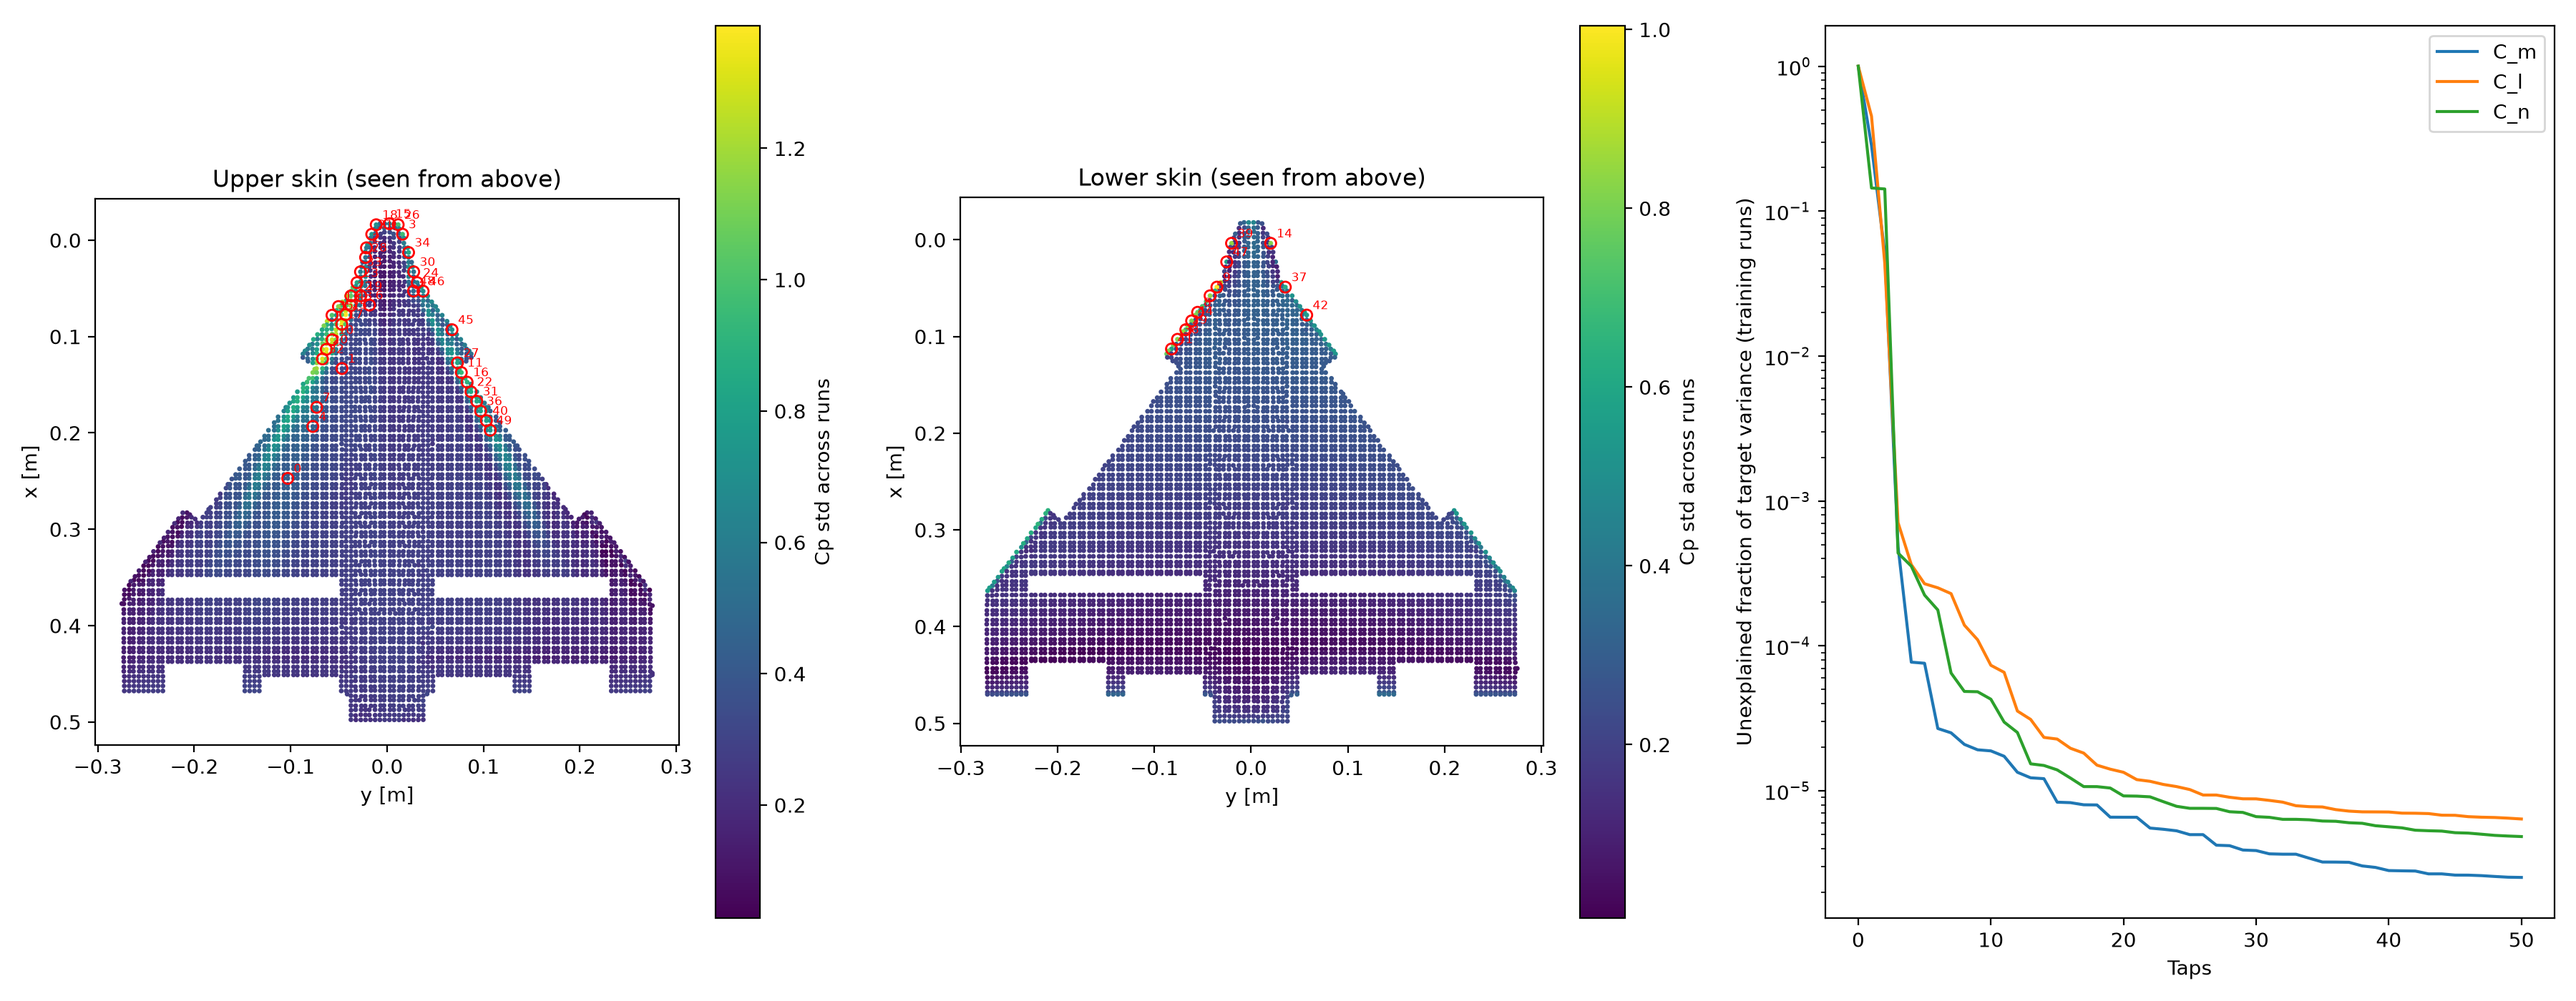
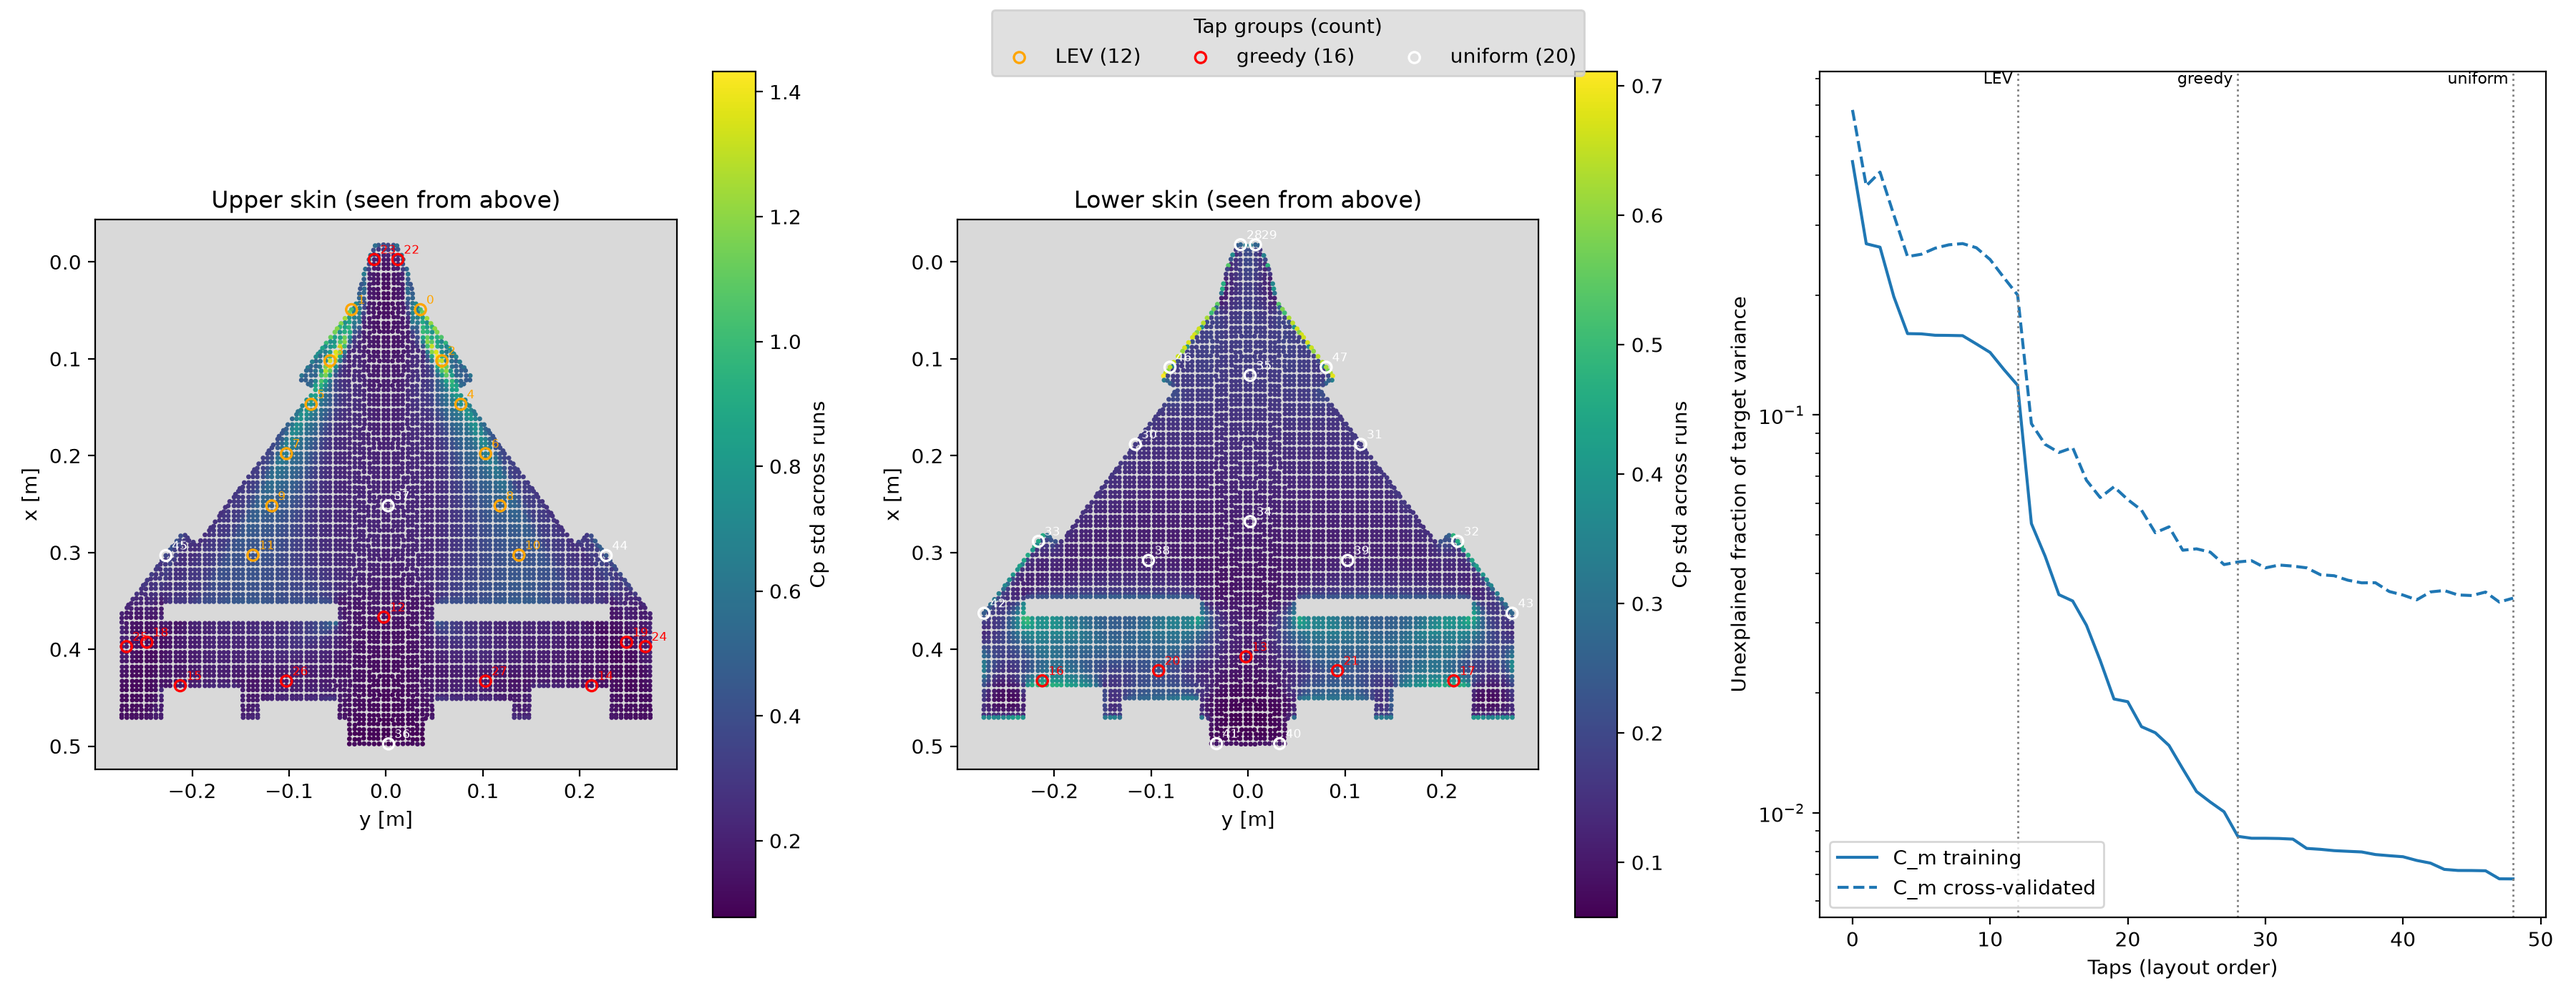
new BLUE passport

diff --git a/src/ml/taps/cfd_taps.py b/src/ml/taps/cfd_taps.py
@@ -27,6 +27,7 @@ import matplotlib.pyplot as plt
 import polars as pl
 import torch
 from matplotlib.axes import Axes
+from matplotlib.patches import Rectangle
 from torch import Tensor
 
 from src.config import CONFIG
@@ -106,11 +107,37 @@ def reference_run(runs: pl.DataFrame) -> str:
     return clean["run"][0]
 
 
-def candidate_points(reference: pl.DataFrame, spacing: float = CANDIDATE_SPACING_M,
-                     fuselage_half_width: float = CONFIG.rig.fuselage_half_width_m) -> pl.DataFrame:
-    """One face per `spacing` square in planform (x, y) on each skin: the one nearest the square's centre. Nothing
-    on the fuselage (|y| < `fuselage_half_width`): taps cannot be fitted there."""
-    cells = reference.filter(pl.col("y").abs() >= fuselage_half_width).with_columns((pl.col(c) / spacing).floor().alias(f"cell_{c}") for c in ("x", "y"))
+@dataclass(frozen=True)
+class NoTapZone:
+    """A planform rectangle where taps cannot be fitted, on both skins and mirrored port/starboard."""
+    name: str
+    abs_y: tuple[float, float]
+    x: tuple[float, float]
+
+
+def no_tap_zones() -> list[NoTapZone]:
+    """The fuselage, and the main body further than the allowed distance behind the split flaps (from CONFIG.rig)."""
+    rig = CONFIG.rig
+    inf = float("inf")
+    return [
+        NoTapZone("fuselage", (0.0, rig.fuselage_half_width_m), (-inf, inf)),
+        NoTapZone("behind splitters", rig.splitter_span_m,
+                  (rig.splitter_trailing_edge_x_m + rig.max_tap_behind_splitter_m, inf)),
+    ]
+
+
+def tap_allowed(zones: list[NoTapZone]) -> pl.Expr:
+    """True where a face lies outside every zone."""
+    inside = [pl.col("y").abs().is_between(*z.abs_y, closed="left") & pl.col("x").is_between(*z.x, closed="none")
+              for z in zones]
+    return ~pl.any_horizontal(inside)
+
+
+def candidate_points(reference: pl.DataFrame, spacing: float = CANDIDATE_SPACING_M) -> pl.DataFrame:
+    """One face per `spacing` square in planform (x, y) on each skin: the one nearest the square's centre. None in
+    a `no_tap_zones` zone."""
+    cells = reference.filter(tap_allowed(no_tap_zones())).with_columns(
+        (pl.col(c) / spacing).floor().alias(f"cell_{c}") for c in ("x", "y"))
     off_centre = sum(((pl.col(c) / spacing) - pl.col(f"cell_{c}") - 0.5) ** 2 for c in ("x", "y"))
     return (
         cells.sort(off_centre)
@@ -362,6 +389,14 @@ def _planform(ax: Axes, problem: TapProblem, taps: pl.DataFrame, surface: int, t
     xy = problem.candidates.filter(pl.Series(on_surface))
     scatter = ax.scatter(xy["y"], xy["x"], c=spread, s=2, cmap="viridis")
     plt.colorbar(scatter, ax=ax, label="Cp std across runs")
+    xs = xy["x"].to_numpy()
+    x_lo, x_hi = float(xs.min()), float(xs.max())  # clip the open-ended zones to the wing
+    for i, zone in enumerate(no_tap_zones()):
+        x0, x1 = max(zone.x[0], x_lo), min(zone.x[1], x_hi)
+        y0, y1 = zone.abs_y
+        for lo, hi in ((y0, y1), (-y1, -y0)):
+            ax.add_patch(Rectangle((lo, x0), hi - lo, x1 - x0, facecolor="0.6", hatch="//", edgecolor="0.4",
+                                   linewidth=0, label="no taps" if i == 0 and lo >= 0 else None))
     for group, colour in GROUP_COLOURS.items():
         picked = taps.filter(pl.col("surface") == surface, pl.col("group") == group)
         ax.scatter(picked["y"], picked["x"], s=30, facecolors="none", edgecolors=colour, linewidths=1.2,

diff --git a/src/ui/tabs/cfd_tab.py b/src/ui/tabs/cfd_tab.py
@@ -2,13 +2,14 @@
 
 Pick a case and a field, then drag the x or y slider (or use the arrow keys on it). The model and camera are the same
 in every image, so it looks like moving a slice through the flow. Each slider keeps its position when the case or
-field changes, so the same station can be compared across cases.
+field changes, so the same station can be compared across cases. Mouse wheel zooms, dragging pans and a double-click
+fits the whole image; the zoom and pan stay put while sliding, so one region can be followed through the sweep.
 """
 
 from pathlib import Path
 
 from qtpy.QtCore import Qt
-from qtpy.QtGui import QPixmap, QResizeEvent
+from qtpy.QtGui import QPixmap
 from qtpy.QtWidgets import (
     QButtonGroup,
     QComboBox,
@@ -19,13 +20,13 @@ from qtpy.QtWidgets import (
     QLineEdit,
     QPushButton,
     QRadioButton,
-    QSizePolicy,
     QSlider,
     QVBoxLayout,
     QWidget,
 )
 
 from src.cfd import slice_images
+from src.ui.utils.image_view import ImageView
 
 
 class CfdTab(QWidget):
@@ -33,7 +34,6 @@ class CfdTab(QWidget):
         super().__init__()
         self._sweeps: dict[str, list[Path]] = {}  # axis -> images of the current case and field
         self._pixmaps: dict[Path, QPixmap] = {}  # loaded images of the current case
-        self._shown: QPixmap | None = None
 
         # --- source row: folder, case, field ---
         self.folder_edit = QLineEdit(str(slice_images.SLICE_IMAGES_DIR))
@@ -79,11 +79,8 @@ class CfdTab(QWidget):
             sliders.addWidget(position, row, 2)
             self.axis_radio[axis], self.sliders[axis], self.positions[axis] = radio, slider, position
 
-        # --- image ---
-        self.image = QLabel("No slice images found")
-        self.image.setAlignment(Qt.AlignmentFlag.AlignCenter)
-        self.image.setSizePolicy(QSizePolicy.Policy.Ignored, QSizePolicy.Policy.Ignored)
-        self.image.setMinimumSize(200, 120)
+        # --- image: wheel to zoom, drag to pan, double-click to fit; zoom and pan stay put while sliding ---
+        self.image = ImageView()
         self.path_label = QLabel()
         self.path_label.setTextInteractionFlags(Qt.TextInteractionFlag.TextSelectableByMouse)
 
@@ -157,24 +154,11 @@ class CfdTab(QWidget):
         axis = next(a for a, r in self.axis_radio.items() if r.isChecked())
         images = self._sweeps.get(axis, [])
         if not images:
-            self._shown = None
-            self.image.clear()
-            self.image.setText("No slice images found")
-            self.path_label.clear()
+            self.image.set_pixmap(None)
+            self.path_label.setText("No slice images found")
             return
         path = images[self.sliders[axis].value()]
         if path not in self._pixmaps:
             self._pixmaps[path] = QPixmap(str(path))
-        self._shown = self._pixmaps[path]
+        self.image.set_pixmap(self._pixmaps[path])
         self.path_label.setText(str(path))
-        self._fit()
-
-    def _fit(self) -> None:
-        if self._shown is not None:
-            self.image.setPixmap(self._shown.scaled(
-                self.image.size(), Qt.AspectRatioMode.KeepAspectRatio, Qt.TransformationMode.SmoothTransformation,
-            ))
-
-    def resizeEvent(self, event: QResizeEvent) -> None:
-        super().resizeEvent(event)
-        self._fit()

diff --git a/src/ui/utils/image_view.py b/src/ui/utils/image_view.py
@@ -1,0 +1,68 @@
+"""An image viewer with mouse-wheel zoom and drag-to-pan that keeps its zoom and pan when the image is swapped."""
+
+from qtpy.QtCore import Qt
+from qtpy.QtGui import QMouseEvent, QPainter, QPixmap, QResizeEvent, QWheelEvent
+from qtpy.QtWidgets import QFrame, QGraphicsPixmapItem, QGraphicsScene, QGraphicsView
+
+ZOOM_STEP: float = 1.25  # per wheel notch
+MAX_ZOOM: float = 40.0  # relative to fitting the whole image
+
+
+class ImageView(QGraphicsView):
+    """Wheel zooms about the cursor, left-drag pans, double-click (or `fit`) shows the whole image again.
+
+    While fitted, the image follows the widget's size. Once zoomed in, `set_pixmap` keeps the view where it is, so
+    flicking through images of the same size compares the same spot."""
+
+    def __init__(self) -> None:
+        super().__init__()
+        self.setScene(QGraphicsScene(self))
+        self._item = QGraphicsPixmapItem()
+        self._item.setTransformationMode(Qt.TransformationMode.SmoothTransformation)
+        self.scene().addItem(self._item)
+        self._fitted = True
+        self.setRenderHint(QPainter.RenderHint.SmoothPixmapTransform)
+        self.setDragMode(QGraphicsView.DragMode.ScrollHandDrag)
+        self.setTransformationAnchor(QGraphicsView.ViewportAnchor.AnchorUnderMouse)
+        self.setResizeAnchor(QGraphicsView.ViewportAnchor.AnchorViewCenter)
+        self.setHorizontalScrollBarPolicy(Qt.ScrollBarPolicy.ScrollBarAlwaysOff)
+        self.setVerticalScrollBarPolicy(Qt.ScrollBarPolicy.ScrollBarAlwaysOff)
+        self.setFrameShape(QFrame.Shape.NoFrame)
+        self.setMinimumSize(200, 120)
+
+    def set_pixmap(self, pixmap: QPixmap | None) -> None:
+        """Show `pixmap` (None clears). Keeps the current zoom and pan unless the view is fitted."""
+        new_size = pixmap is not None and pixmap.size() != self._item.pixmap().size()
+        self._item.setPixmap(pixmap if pixmap is not None else QPixmap())
+        self.scene().setSceneRect(self._item.boundingRect())
+        if self._fitted or new_size:
+            self.fit()
+
+    def fit(self) -> None:
+        """Show the whole image."""
+        self._fitted = True
+        if not self._item.pixmap().isNull():
+            self.fitInView(self._item, Qt.AspectRatioMode.KeepAspectRatio)
+
+    def wheelEvent(self, event: QWheelEvent) -> None:
+        pixmap = self._item.pixmap()
+        if pixmap.isNull():
+            return
+        viewport = self.viewport().size()
+        fit_scale = min(viewport.width() / pixmap.width(), viewport.height() / pixmap.height())
+        scale = self.transform().m11()
+        target = scale * ZOOM_STEP ** (event.angleDelta().y() / 120)
+        if target <= fit_scale:
+            self.fit()
+            return
+        target = min(target, MAX_ZOOM * fit_scale)
+        self.scale(target / scale, target / scale)  # about the cursor (AnchorUnderMouse)
+        self._fitted = False
+
+    def mouseDoubleClickEvent(self, event: QMouseEvent) -> None:
+        self.fit()
+
+    def resizeEvent(self, event: QResizeEvent) -> None:
+        super().resizeEvent(event)
+        if self._fitted:
+            self.fit()

diff --git a/src/config.py b/src/config.py
@@ -27,6 +27,11 @@ class RigParams(BaseModel):
     # No pressure taps on the fuselage: |y| below this. The fuselage is part of the main-body mesh, so the tap
     # selection excludes it by span. The fuselage is 100 mm wide, treated as constant width along its length.
     fuselage_half_width_m: float = 0.05
+    # Behind the split flaps (both skins), taps go no further aft than this past the flaps' trailing edge.
+    # Span and trailing edge from the splitter STLs (cad/uav, x 347-372 mm, |y| 50-230 mm).
+    splitter_span_m: tuple[float, float] = (0.05, 0.23)  # |y| range
+    splitter_trailing_edge_x_m: float = 0.372
+    max_tap_behind_splitter_m: float = 0.035
     # Calibration: Cm = My / (q S c).
     q_inf: float = 500.0  # dynamic pressure [Pa], ~29 m/s
     area: float = 0.12  # reference area [m^2]
